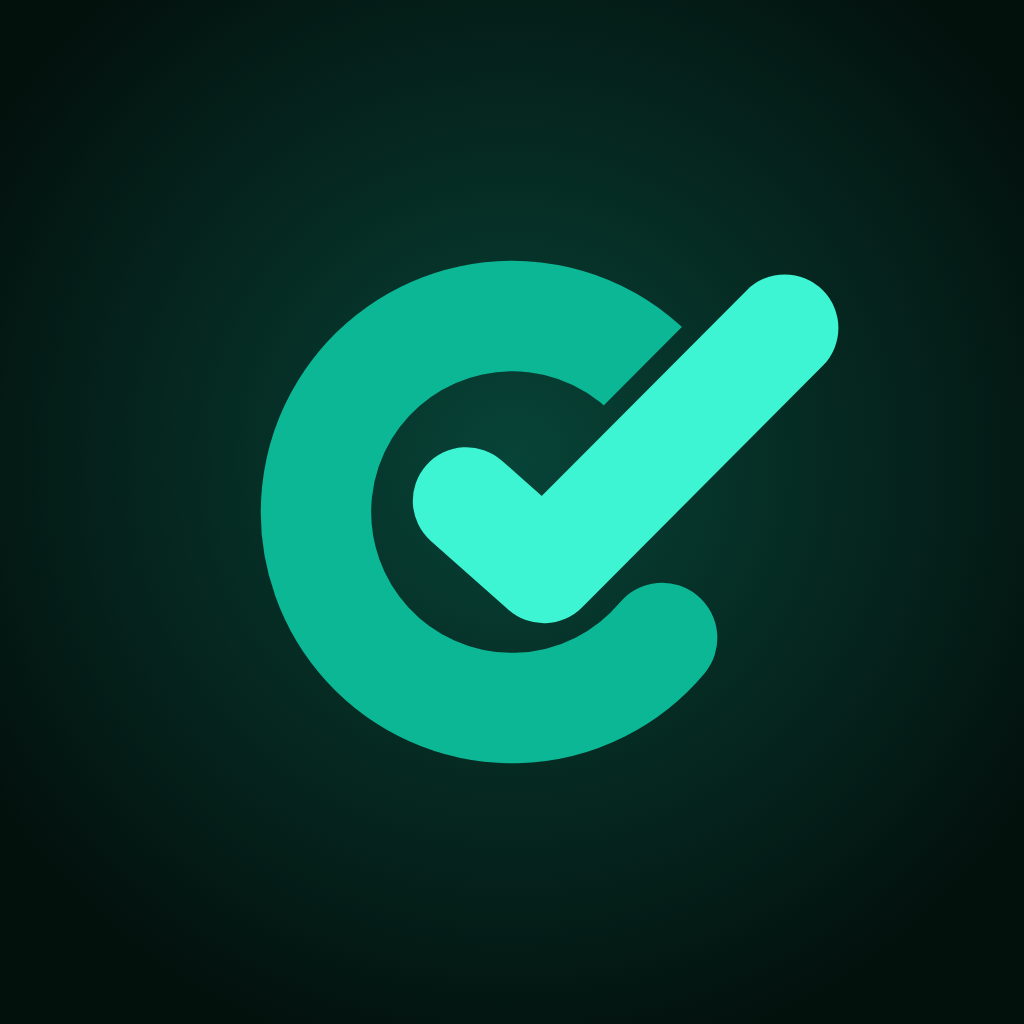
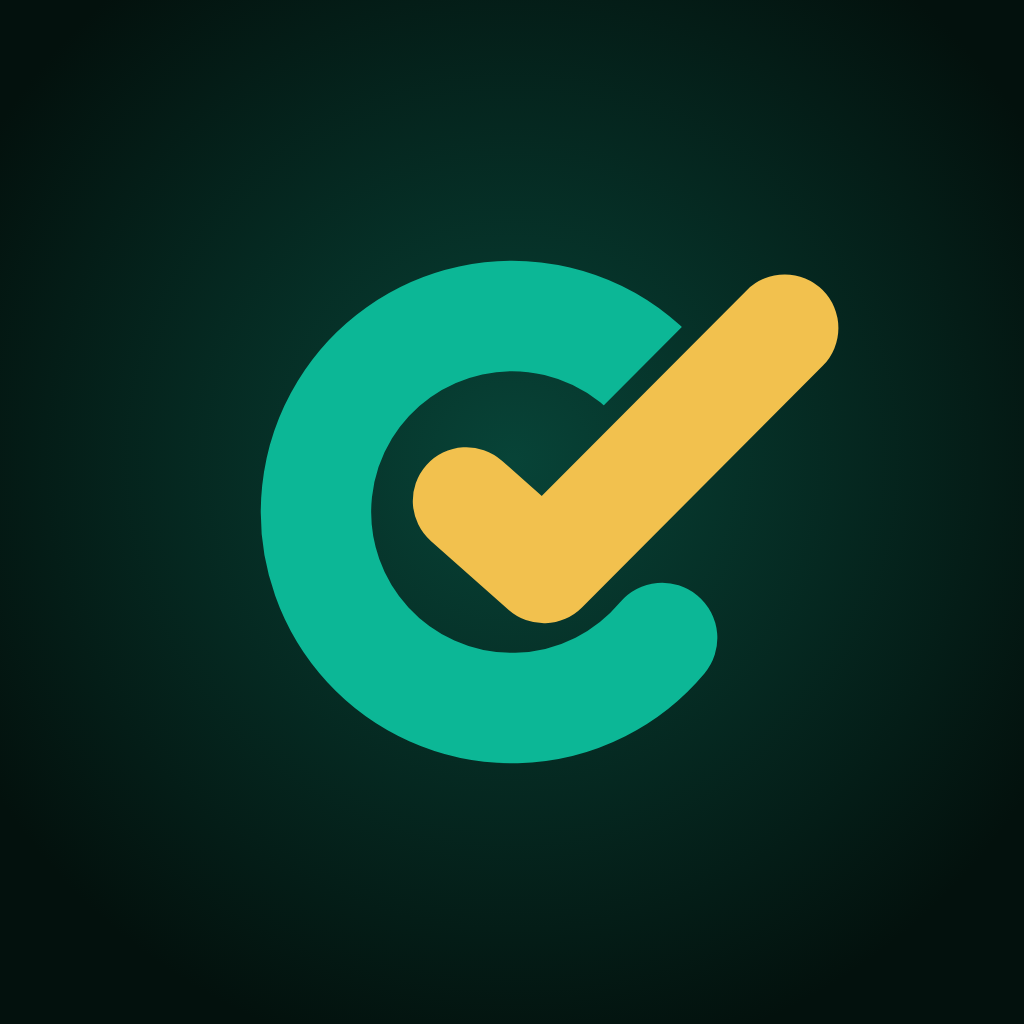
Check amarelo e fundo neutro, como no app
Claude-Session: https://claude.ai/code/session_01CRMQRqkczPVmqEUuhoHYDr

Changed region(s): [[0.4062, 0.25, 0.8438, 0.625]]

diff --git a/index.html b/index.html
@@ -6,8 +6,8 @@
 <link rel="preconnect" href="https://fonts.googleapis.com"><link rel="preconnect" href="https://fonts.gstatic.com" crossorigin>
 <link href="https://fonts.googleapis.com/css2?family=Outfit:wght@400;500;600;700&display=swap" rel="stylesheet">
 <style>
-:root{--verde:#08493C;--fundo-verde:#03110D;--bg:#E8EFEC;--card:#fff;--ink:#03110D;--muted:#4F6660;--line:#D8E3DF;--link:#087A64;color-scheme:light}
-@media (prefers-color-scheme:dark){:root{--bg:#03110D;--card:#0A1F1A;--ink:#F2FBF8;--muted:#9DB8B0;--line:#1B3C34;--link:#3DF5D3;color-scheme:dark}}
+:root{--verde:#08493C;--fundo-verde:#03110D;--bg:#ECEEF1;--card:#fff;--ink:#171717;--muted:#5E6461;--line:#DADFDD;--link:#087A64;color-scheme:light}
+@media (prefers-color-scheme:dark){:root{--bg:#0B0D0C;--card:#161918;--ink:#F2F4F3;--muted:#A3ABA8;--line:#2A2F2D;--link:#2BD1A5;color-scheme:dark}}
 *{box-sizing:border-box}html{scroll-behavior:smooth}
 body{margin:0;background:var(--bg);color:var(--ink);font:400 17px/1.65 Outfit,system-ui,-apple-system,"Segoe UI",sans-serif}
 a{color:var(--link)}
@@ -39,7 +39,7 @@ footer{text-align:center;color:var(--muted);font-size:14px;padding:0 20px 32px}
 <body>
 <header id="topo">
 <svg class="n" id="ng" viewBox="260 240 505 545" aria-hidden="true"><path d="M 339 706 L 339 318 L 685.3 706 L 685.3 397.0" stroke="#fff" stroke-width="138" fill="none" stroke-linecap="round" stroke-linejoin="round" stroke-dasharray="1217" stroke-dashoffset="1217"/></svg>
-<svg class="logo" viewBox="140 140 744 744" aria-hidden="true"><defs><clipPath id="r"><path d="M -2000 -2000 H 3000 V 3000 H -2000 Z M 574.2 648.9 L 875.2 346.9 L 744.8 217.1 L 443.8 519.1 Z" clip-rule="evenodd"/></clipPath></defs><path class="tn" d="M 339 706 L 339 318 L 685.3 706 L 685.3 397.0" stroke="#0CB796" stroke-width="138" fill="none" stroke-linecap="round" stroke-linejoin="round" stroke-dasharray="1217 1217" style="stroke-opacity:0"/><path class="tc" d="M 685.3 397.0 A 245 245 0 1 0 656.7 669.5" stroke="#0CB796" stroke-width="138" fill="none" stroke-linecap="round" clip-path="url(#r)" stroke-dasharray="1249"/><path class="tk" d="M 412 498 L 509 584 L 810 282" stroke="#3DF5D3" stroke-width="134" fill="none" stroke-linecap="round" stroke-linejoin="round" stroke-dasharray="556"/></svg>
+<svg class="logo" viewBox="140 140 744 744" aria-hidden="true"><defs><clipPath id="r"><path d="M -2000 -2000 H 3000 V 3000 H -2000 Z M 574.2 648.9 L 875.2 346.9 L 744.8 217.1 L 443.8 519.1 Z" clip-rule="evenodd"/></clipPath></defs><path class="tn" d="M 339 706 L 339 318 L 685.3 706 L 685.3 397.0" stroke="#0CB796" stroke-width="138" fill="none" stroke-linecap="round" stroke-linejoin="round" stroke-dasharray="1217 1217" style="stroke-opacity:0"/><path class="tc" d="M 685.3 397.0 A 245 245 0 1 0 656.7 669.5" stroke="#0CB796" stroke-width="138" fill="none" stroke-linecap="round" clip-path="url(#r)" stroke-dasharray="1249"/><path class="tk" d="M 412 498 L 509 584 L 810 282" stroke="#F2C14E" stroke-width="134" fill="none" stroke-linecap="round" stroke-linejoin="round" stroke-dasharray="556"/></svg>
 <div class="nome"><b>No Controle</b><span>Suas finanças, mês a mês.</span></div>
 <div class="resto">
 <h1>Política de Privacidade</h1>

diff --git a/excluir-conta/index.html b/excluir-conta/index.html
@@ -6,8 +6,8 @@
 <link rel="preconnect" href="https://fonts.googleapis.com"><link rel="preconnect" href="https://fonts.gstatic.com" crossorigin>
 <link href="https://fonts.googleapis.com/css2?family=Outfit:wght@400;500;600;700&display=swap" rel="stylesheet">
 <style>
-:root{--verde:#08493C;--fundo-verde:#03110D;--bg:#E8EFEC;--card:#fff;--ink:#03110D;--muted:#4F6660;--line:#D8E3DF;--link:#087A64;color-scheme:light}
-@media (prefers-color-scheme:dark){:root{--bg:#03110D;--card:#0A1F1A;--ink:#F2FBF8;--muted:#9DB8B0;--line:#1B3C34;--link:#3DF5D3;color-scheme:dark}}
+:root{--verde:#08493C;--fundo-verde:#03110D;--bg:#ECEEF1;--card:#fff;--ink:#171717;--muted:#5E6461;--line:#DADFDD;--link:#087A64;color-scheme:light}
+@media (prefers-color-scheme:dark){:root{--bg:#0B0D0C;--card:#161918;--ink:#F2F4F3;--muted:#A3ABA8;--line:#2A2F2D;--link:#2BD1A5;color-scheme:dark}}
 *{box-sizing:border-box}html{scroll-behavior:smooth}
 body{margin:0;background:var(--bg);color:var(--ink);font:400 17px/1.65 Outfit,system-ui,-apple-system,"Segoe UI",sans-serif}
 a{color:var(--link)}
@@ -47,7 +47,7 @@ ul{padding-left:22px;margin:0 0 12px}ul li{margin:3px 0}
 </style></head>
 <body>
 <header class="curto">
-<svg class="logo" viewBox="140 140 744 744" aria-hidden="true"><defs><clipPath id="r"><path d="M -2000 -2000 H 3000 V 3000 H -2000 Z M 574.2 648.9 L 875.2 346.9 L 744.8 217.1 L 443.8 519.1 Z" clip-rule="evenodd"/></clipPath></defs><path class="tn" d="M 339 706 L 339 318 L 685.3 706 L 685.3 397.0" stroke="#0CB796" stroke-width="138" fill="none" stroke-linecap="round" stroke-linejoin="round" style="display:none"/><path class="tc" d="M 685.3 397.0 A 245 245 0 1 0 656.7 669.5" stroke="#0CB796" stroke-width="138" fill="none" stroke-linecap="round" clip-path="url(#r)"/><path class="tk" d="M 412 498 L 509 584 L 810 282" stroke="#3DF5D3" stroke-width="134" fill="none" stroke-linecap="round" stroke-linejoin="round"/></svg>
+<svg class="logo" viewBox="140 140 744 744" aria-hidden="true"><defs><clipPath id="r"><path d="M -2000 -2000 H 3000 V 3000 H -2000 Z M 574.2 648.9 L 875.2 346.9 L 744.8 217.1 L 443.8 519.1 Z" clip-rule="evenodd"/></clipPath></defs><path class="tn" d="M 339 706 L 339 318 L 685.3 706 L 685.3 397.0" stroke="#0CB796" stroke-width="138" fill="none" stroke-linecap="round" stroke-linejoin="round" style="display:none"/><path class="tc" d="M 685.3 397.0 A 245 245 0 1 0 656.7 669.5" stroke="#0CB796" stroke-width="138" fill="none" stroke-linecap="round" clip-path="url(#r)"/><path class="tk" d="M 412 498 L 509 584 L 810 282" stroke="#F2C14E" stroke-width="134" fill="none" stroke-linecap="round" stroke-linejoin="round"/></svg>
 <div class="nome"><b>No Controle</b><span>Suas finanças, mês a mês.</span></div>
 <h1>Excluir a conta</h1>
 <p class="sub">Como apagar a sua conta do No Controle e os dados ligados a ela.</p>
